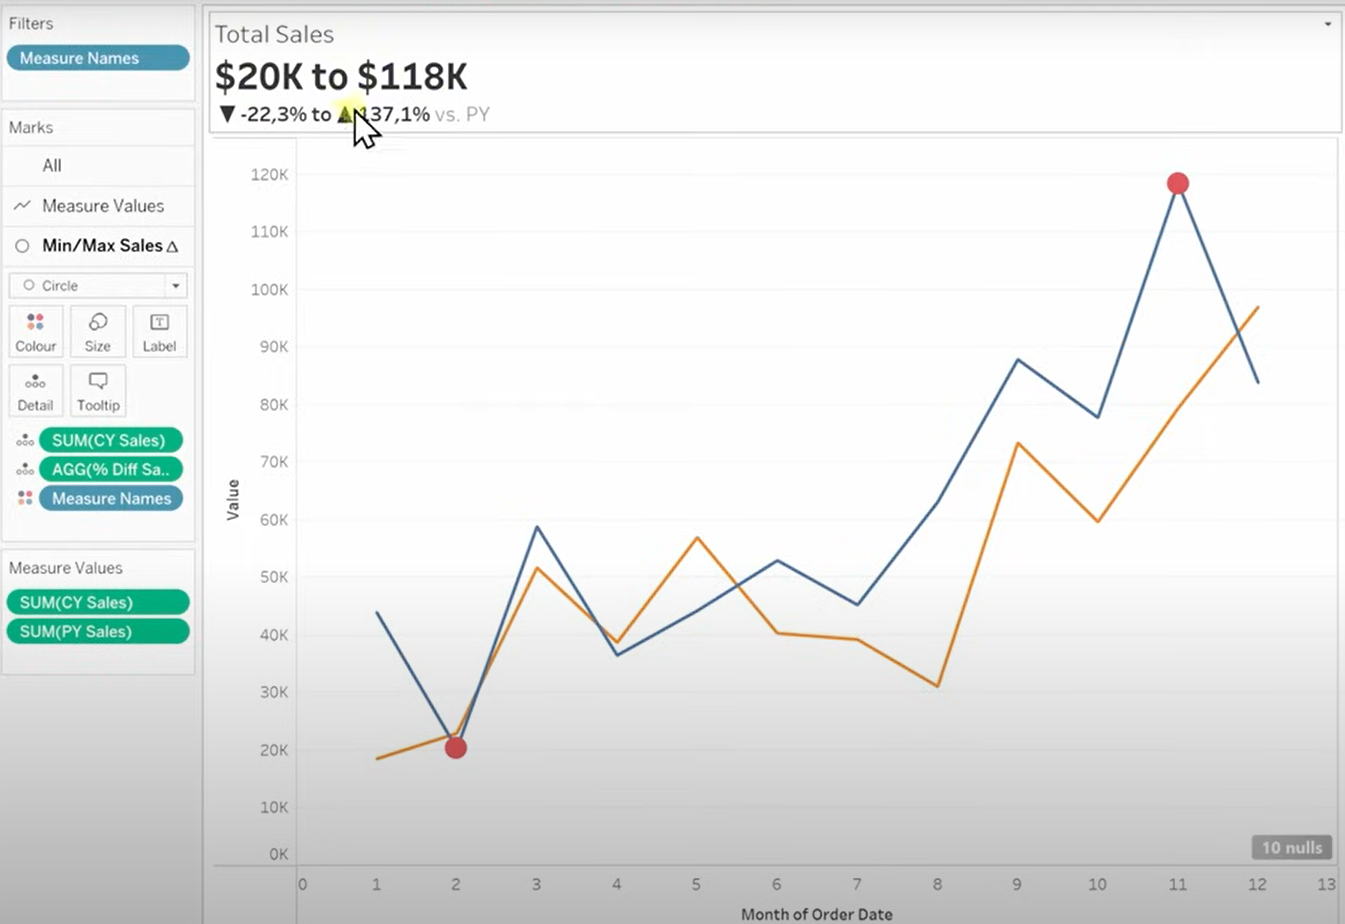
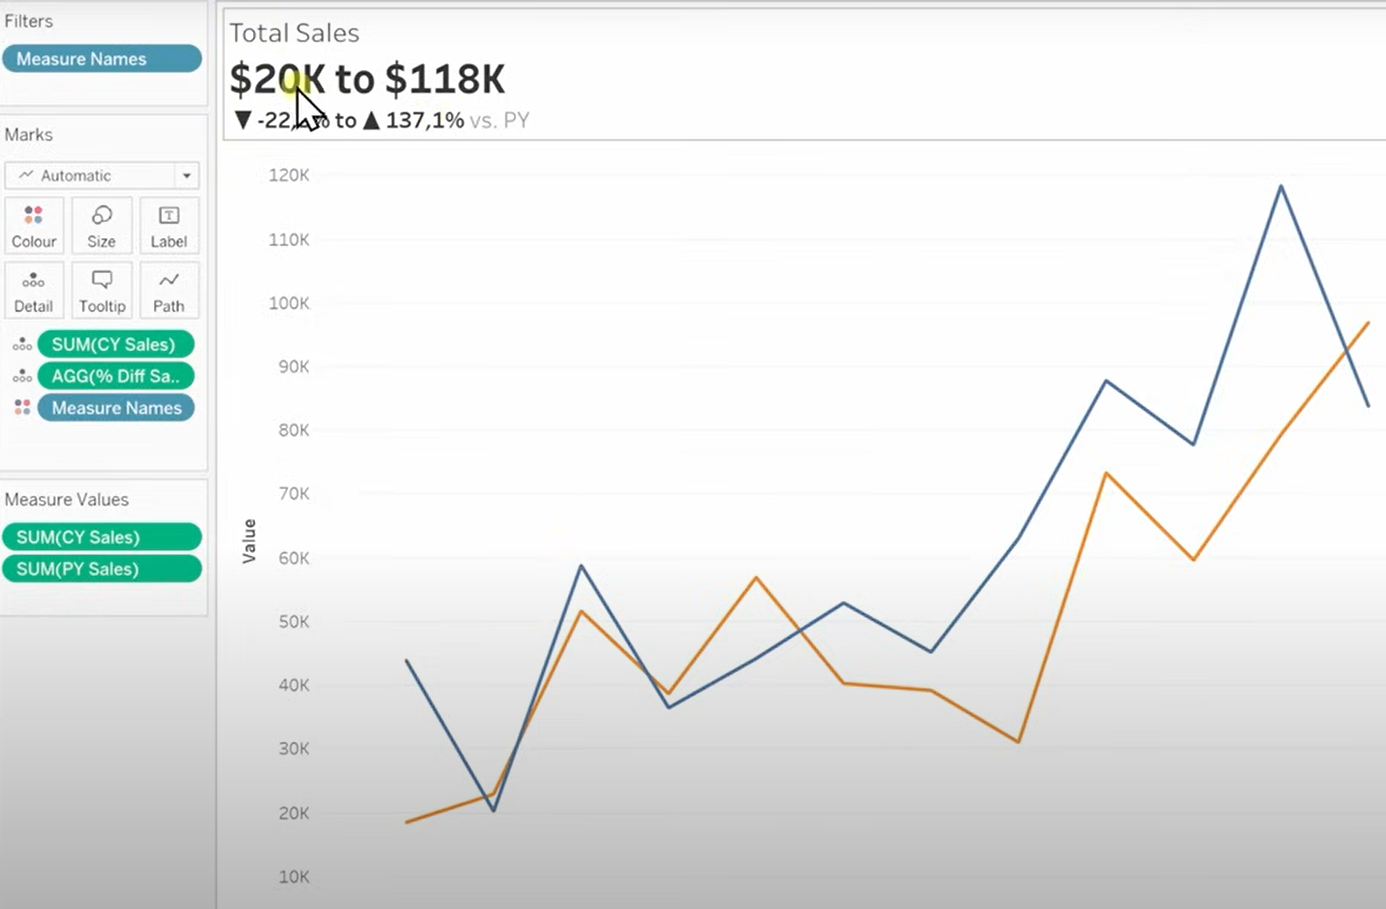
updated the 3-readmefile

diff --git a/3-Building-charts/README.md b/3-Building-charts/README.md
@@ -22,6 +22,10 @@ We will create a calculated field regarding the KPI requirements so that we can 
   IF YEAR([Order Date]) = 2023 THEN [Sales]
   END
 ```
+<p align="center">
+  <img src="../images/3.2.png" alt="Description of image" width="40%">
+</p>
+
 We can create a similar calculated field for the sales of the previous year. We'll call this 'PY Sales' and define it accordingly:
 
 ```
@@ -29,10 +33,23 @@ We can create a similar calculated field for the sales of the previous year. We'
   END
 ```
 
+<p align="center">
+  <img src="../images/3.3" alt="Description of image" width="40%">
+</p>
+
+Now, how can we make the dashboard dynamic? By using parameters to allow users to check historical data to select any desired year.
+We start off with creating a calculated field that returns the value of the year from Order Date called 'Order Date(Year)', defined as follows:
+
 ```
   YEAR([Order Date])
 ```
+Now, we can create a parameter called 'Select Year':
 
+<p align="center">
+  <img src="../images/3.4.png" alt="Description of image" width="40%">
+</p>
+
+Then, it's time to link our parameter to our calculated fields by editing them as follows:
 
 
 ```
@@ -43,12 +60,41 @@ We can create a similar calculated field for the sales of the previous year. We'
   IF YEAR([Order Date]) = [Select Year]-1 THEN [Sales]
   END
 ```
+We've calculated the amount of sales for the current and previous year. Now, it's the time to calculate their differences in percentage. We call it '% Diff Sales', defined as follows:
 
 ```
   (SUM([CY Sales]) - SUM([PY Sales])) / SUM([PY Sales])
 ```
+We'll put all the bans info in the title part and include the sparkline chart as well in one sheet.
+```
+  Total Sales
+  <SUM(CY Sales)>
+  <AGG(% Diff Sales)> vs. PY
+```
 
-▲ 0.00%; ▼ -0.00%;
+We can provide the following custom format for difference percentage KPI:
+
+▲ 0.0%; ▼ -0.0%;
+
+<p align="center">
+  <img src="../images/3.5.png" alt="Description of image" width="40%">
+</p>
+
+
+
+
+
+
+## 3.2 Building the charts
+
+🛑*** Problem *** Continuous measures in visualization leads to a range of values in the title.
+
+<p align="center">
+  <img src="../images/3.6.png" alt="Description of image" width="40%">
+</p>
+
+Note that how after adding the sparkline chart on top of each other, our bans info broke. We'll put a pin on this and will take care of it later. First, let's add the min/max circles in our sales charts. We create a calculated field called 'Min/Max Sales', defined as follows:
+
 
 ```
   IF SUM([CY Sales]) = WINDOW_MAX(SUM([CY Sales]))
@@ -57,12 +103,29 @@ We can create a similar calculated field for the sales of the previous year. We'
   THEN SUM([CY Sales])
   END
 ```
+Remember to choose dual axis so that the circles would be placed on top of the line charts rather than separated.
 
+<p align="center">
+  <img src="../images/3.7.png" alt="Description of image" width="40%">
+</p>
 
+Now,to fix the problem we faced in our bans section when we added the sparkline charts, we can do the following LOD trick(Level of Detail):
 
-## 3.2 Building the charts
+We edit our marks by wrapping them in curly brackets,{}, and then, edit our bans info by chosing the new marks:
 
-🛑*** Problem *** Continuous measures in visualization leads to a range of values in the title.
+```
+  Total Sales
+  <SUM({SUM([CY Sales])})>
+  <SUM({[% Diff Sales]})>vs. PY
+
+```
+
+Everything is back to normal now!
+
+<p align="center">
+  <img src="../images/3.8.png" alt="Description of image" width="40%">
+</p>
+
 
 ## 3.3 Formatting
 
